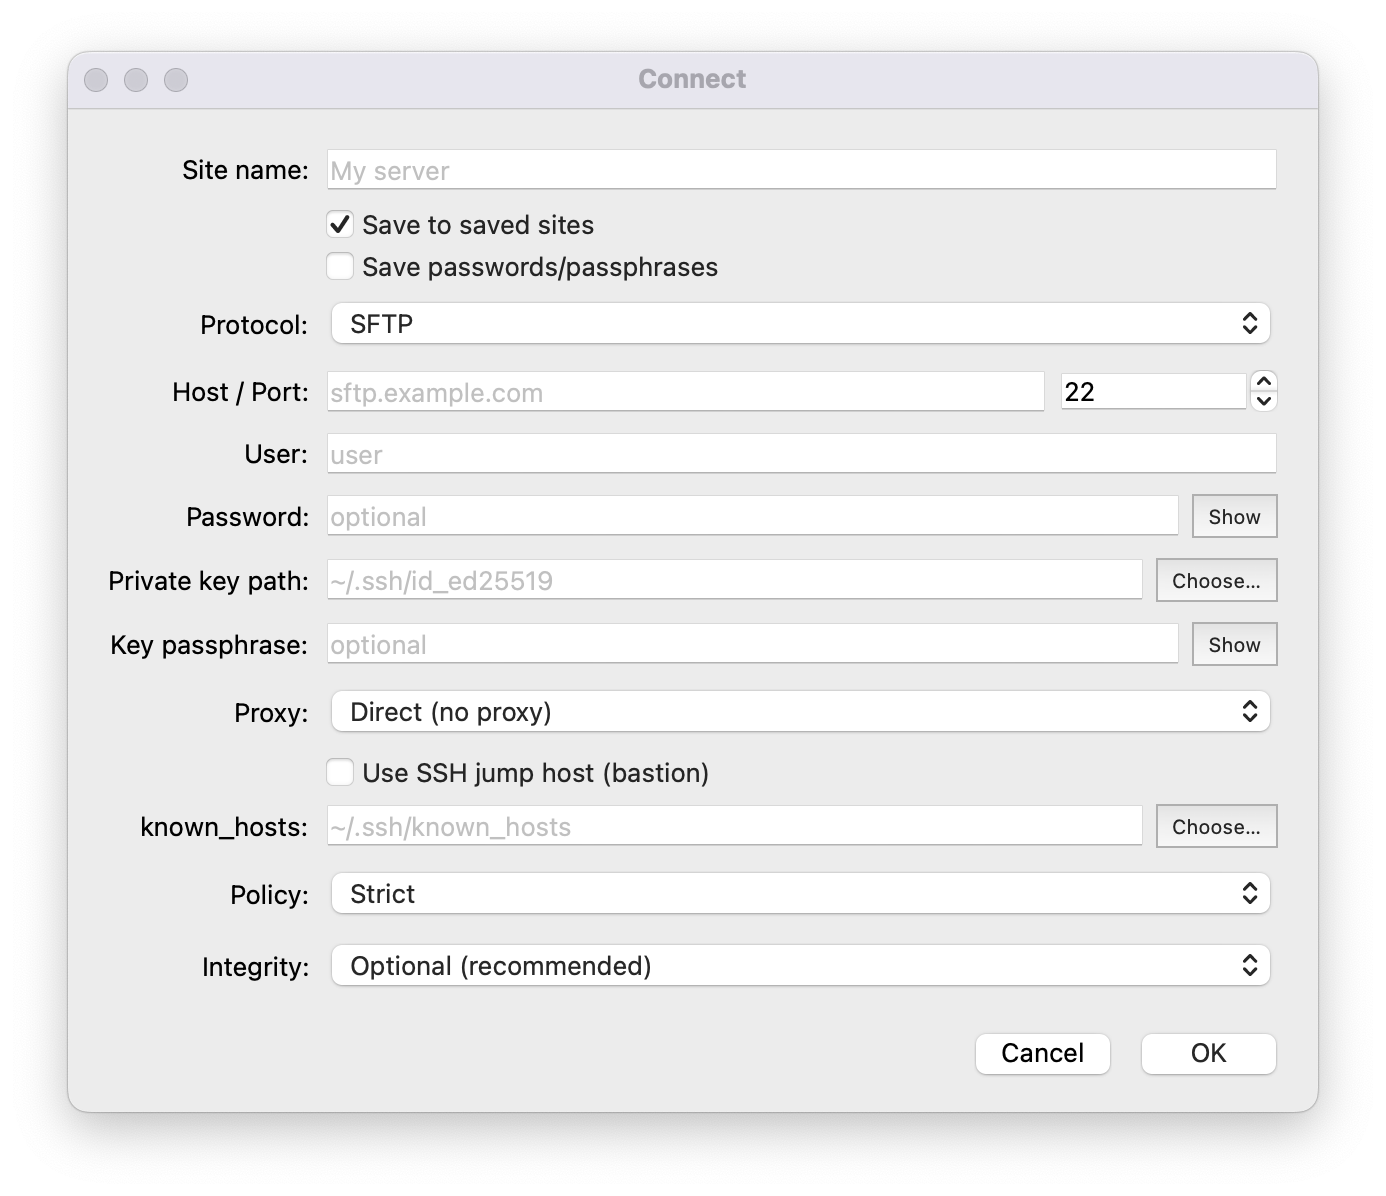
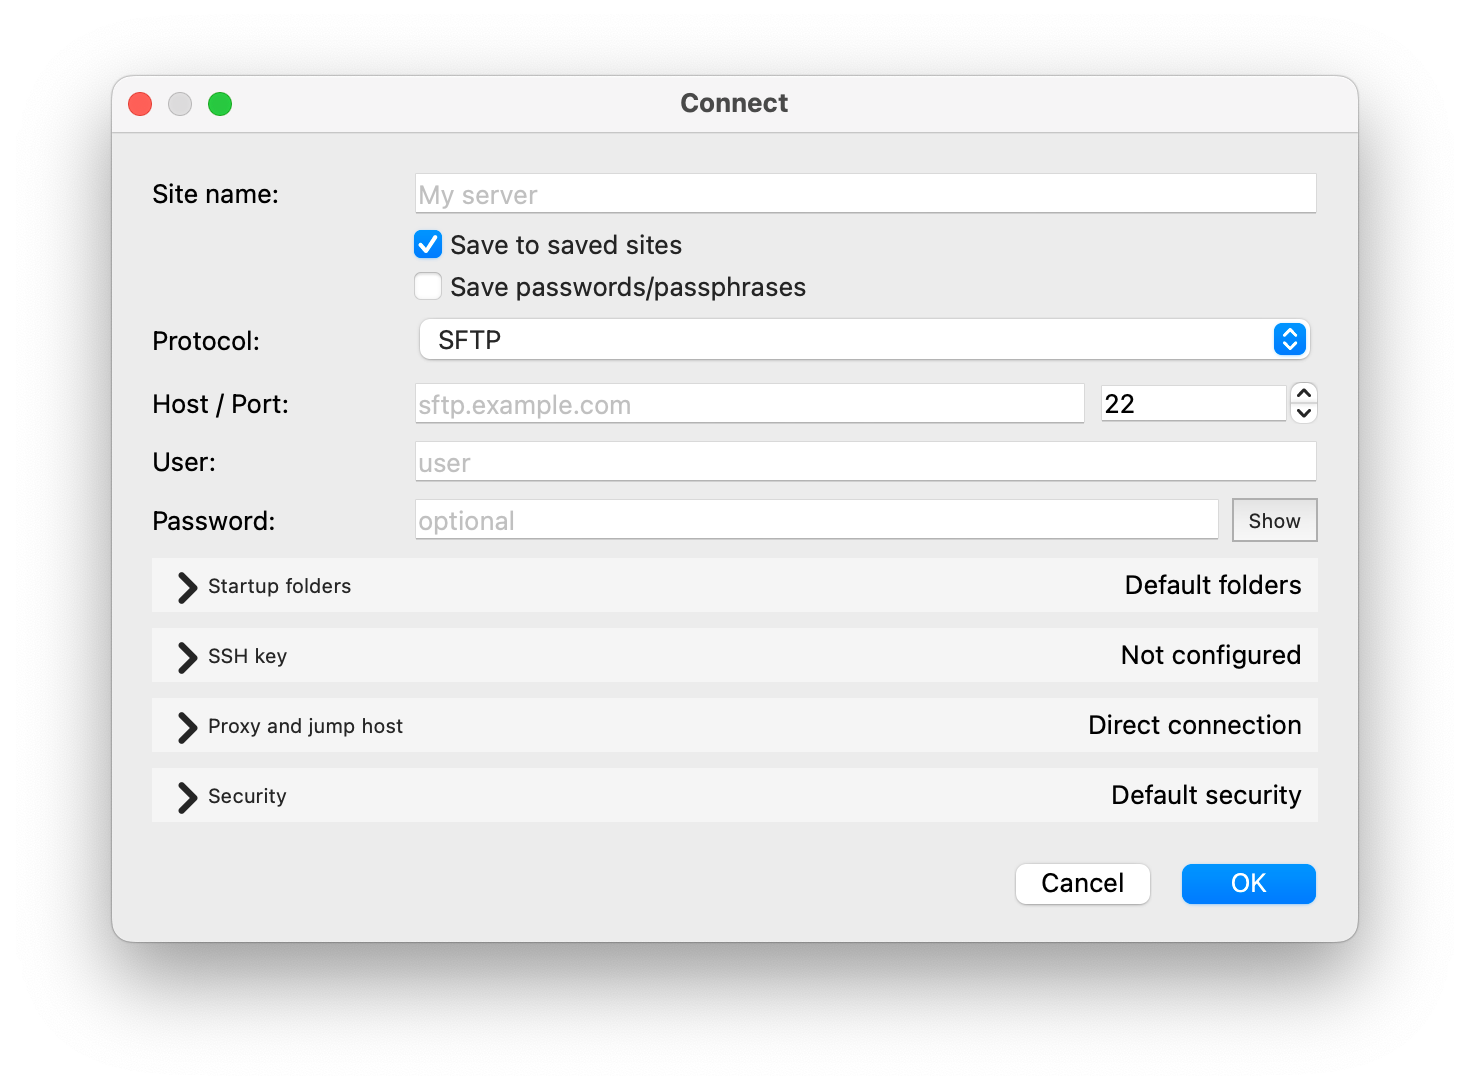
docs(readme): update branding and screenshots

diff --git a/README_ES.md b/README_ES.md
@@ -2,7 +2,7 @@
   <img src="assets/icons/app-openscp.png" alt="Icono de OpenSCP" width="128">
   <h1>OpenSCP</h1>
 
-  <p><strong>Un cliente ligero y multiplataforma de transferencia de archivos inspirado en WinSCP.</strong></p>
+  <p><strong>Un cliente ligero y multiplataforma para transferir archivos, con flujo de trabajo de doble panel, configuración segura por defecto y compatibilidad con SFTP, SCP, FTP, FTPS y WebDAV.</strong></p>
   <p><a href="README.md">Read in English</a></p>
 
   <img src="assets/screenshots/screenshot-main-window.png" alt="Ventana principal de OpenSCP" width="900">
@@ -173,9 +173,17 @@ activarse temporalmente en un entorno de desarrollo controlado.
 </p>
 
 <p align="center">
-  <img src="assets/screenshots/screenshot-history.png" alt="Historial de navegación" width="40%">
-  <img src="assets/screenshots/screenshot-settings.png" alt="Ajustes de la aplicación" width="40%">
+  <img src="assets/screenshots/screenshot-history.png" alt="Historial de navegación" width="32%">
+  <img src="assets/screenshots/screenshot-favorites.png" alt="Rutas favoritas" width="32%">
+  <img src="assets/screenshots/screenshot-settings.png" alt="Ajustes de la aplicación" width="32%">
 </p>
+
+<details>
+  <summary>Opciones avanzadas de conexión</summary>
+  <p align="center">
+    <img src="assets/screenshots/screenshot-connect-extended.png" alt="Opciones avanzadas de conexión" width="60%">
+  </p>
+</details>
 
 ## Roadmap
 

diff --git a/README.md b/README.md
@@ -2,7 +2,7 @@
   <img src="assets/icons/app-openscp.png" alt="OpenSCP icon" width="128">
   <h1>OpenSCP</h1>
 
-  <p><strong>A lightweight, cross-platform file transfer client inspired by WinSCP.</strong></p>
+  <p><strong>A lightweight, cross-platform file transfer client with a dual-panel workflow, secure defaults, and support for SFTP, SCP, FTP, FTPS, and WebDAV.</strong></p>
   <p><a href="README_ES.md">Leer en español</a></p>
 
   <img src="assets/screenshots/screenshot-main-window.png" alt="OpenSCP main window" width="900">
@@ -166,9 +166,17 @@ a controlled development environment.
 </p>
 
 <p align="center">
-  <img src="assets/screenshots/screenshot-history.png" alt="Navigation history" width="40%">
-  <img src="assets/screenshots/screenshot-settings.png" alt="Application settings" width="40%">
+  <img src="assets/screenshots/screenshot-history.png" alt="Navigation history" width="32%">
+  <img src="assets/screenshots/screenshot-favorites.png" alt="Favorite paths" width="32%">
+  <img src="assets/screenshots/screenshot-settings.png" alt="Application settings" width="32%">
 </p>
+
+<details>
+  <summary>Advanced connection options</summary>
+  <p align="center">
+    <img src="assets/screenshots/screenshot-connect-extended.png" alt="Advanced connection options" width="60%">
+  </p>
+</details>
 
 ## Roadmap
 
